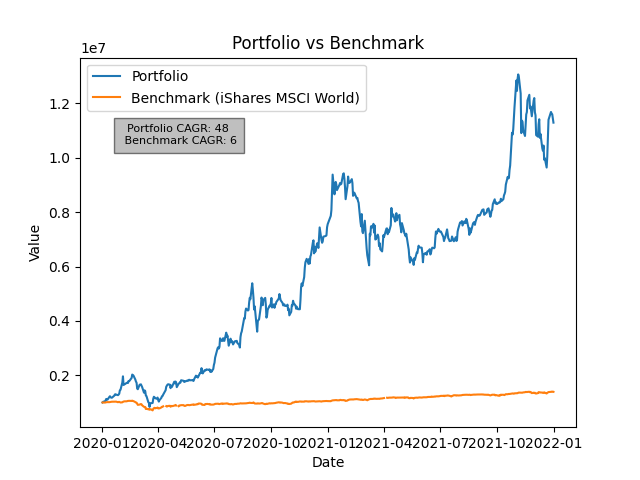
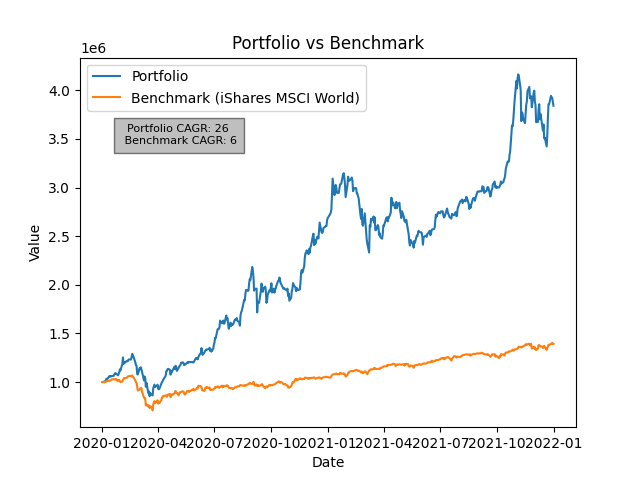
added smt but its' working

diff --git a/templates/home.html b/templates/home.html
@@ -18,51 +18,61 @@
 </head>
 <body class="poppins-regular">
     <div class="header">
-        <h1><s>Not</s> Portfolio Analyzer
-    </div>
-    <div>
-        <h2>But you can still enter your assets and their percentages</h2>
-    </div>
-
-    <div class ="form container">
-    <div class="asset-form">
-        <input list="assets" id = "asset-1">
-        <input type="number"  list="percentages" default = "0" id = "percentage-1">
-    </div>
-    <div class="asset-form">
-        <input list="assets" id = "asset-2">
-        <input type="number"  list="percentages" default = "0" id = "percentage-2">
-    </div> 
-    <div class="asset-form">
-        <input list="assets" id = "asset-3">
-        <input type="number"  list="percentages" default = "0" id = "percentage-3">
-    </div> 
-    <div class="asset-form">
-        <input list="assets" id = "asset-4">
-        <input type="number"  list="percentages" default = "0" id = "percentage-4">
-    </div> 
-
-    
-    </div>
-    
-
-    <button onclick="submitForm()">Analyze!</button>
-    <datalist id="assets">
-        <option value="AAPL">
-        <option value="TSLA">
-        <option value="MSFT">
-        <option value="IWDA.AS">
-    </datalist>
-
-
-
-    <div class = "analysis container" class="typewriter">
-        <p id="analysis-text">
+        <h1><s>NOT</s> A PORTFOLIO ANALYZER</h1>
+        <h3>I'm just a funny financial adivsor that will tell his opinion. <br> 
+        Please provide your assets (as listed in <a href="https://consent.yahoo.com/v2/collectConsent?sessionId=3_cc-session_b302b107-43ee-4daa-8c86-6fdf654f5a4d" target="_blank">Yahoo Finance</a>)
+        <br>and the percentage (as a integer) you want to allocate to each asset. <br>
         
-        </p>
+    </h2>
+    </div>
+    
+    <div class = "content">
+        <div class ="form-container " >
+            <div class="asset-form">
+                <input list="assets" class="asset poppins-bold" value = "AAPL" id = "asset-1">
+                <input type="number"  list="percentages" value = "20" class = "percentage" id = "percentage-1">
+            </div>
+            <div class="asset-form">
+                <input list="assets" class="asset poppins-bold" value = "TSLA" id = "asset-2">
+                <input type="number"  list="percentages" value = "20" class = "percentage" id = "percentage-2">
+            </div> 
+            <div class="asset-form">
+                <input list="assets" class="asset poppins-bold"  value = "MSFT" id = "asset-3">
+                <input type="number"  list="percentages" value = "20"class = "percentage" id = "percentage-3">
+            </div> 
+            <div class="asset-form">
+                <input list="assets" class="asset poppins-bold" value = "IWDA.AS" id = "asset-4">
+                <input type="number"  list="percentages" value = "20" class = "percentage" id = "percentage-4">
+            </div> 
+
+        
+            <button onclick="submitForm()">SEND!</button>
+            <datalist id="assets">
+                    <option value="AAPL">
+                    <option value="TSLA">
+                    <option value="SPY">
+                    <option value="MSFT">
+                    <option value="^DJI">
+                    <option value="IWDA.AS">
+                    <option value="^RUT">
+                    <option value="SPY">
+                    <option value="^FCHI">
+           
+            </datalist>
+        
+
+        </div>
+
+        <div class = "analysis-container typewriter">
+                <p id="analysis-text" style="text-align: justify; overflow: hidden"></p>
+        </div>
     </div>
 
-    <script src="{{url_for('static',path='/script.js')}}"></script>
+    <div class="footer">
+        <p>Created with LOVE by <a href="https://www.linkedin.com/notifications/?filter=all" target="_blank">Giacomo Maggiore</a></p>
+    </div>
+    
+        <script src="{{url_for('static',path='/script.js')}}"></script>
 
 </body>
 </html>

diff --git a/static/style.css b/static/style.css
@@ -1,4 +1,22 @@
+:root {
+    --color-1: black;
+    --color-2: white(171, 171, 171);
+    --color-3: rgb(181, 181, 181);
+    --color-4: rgb(255, 165, 255);
+    --margin-top: 10px;
+    --margin-left: 10px;
+  }
+  
 
+
+
+html, body {
+    width: 100vw; /* Full viewport width */
+    height: 100vh; /* Full viewport height */
+    overflow: hidden; /* Hides the scrollbars */
+    padding: 0 0 0 0; /* Removes default padding */
+    margin: 0 0 0 0; /* Remove the margin */
+}
 .typewriter p {
     display: inline-block;
     border-right: 2px solid black;
@@ -7,23 +25,93 @@
     animation: caret 1s steps(1) infinite;
 }
 
+.header{
+    background-color: var(--color-3);
+    margin: 0;
+    padding: var(--margin-top);
+}
+
+
 @keyframes caret {
-    50% {
+    0% {
         border-color: transparent;
     }
 }
 
-.container{
-    display: flex;
-    justify-content: flex-start;
-
-    height: 100vh;
-    justify-content: left;
+input {
+    margin: 4px 0;
+    border: none;
+    border-bottom: 3px solid var(--color-1); /* Light gray border */
+    background-color: transparent; /* Transparent background */
+    font-size: 20px;
 }
 
-.form{
+input:focus {
+    outline: none;
+    border-bottom-color: #000; /* Black border on focus */
+}
+
+button {
+    margin-top: var(--margin-top);
+    width: 100%;
+    cursor: pointer;
+    font-size: 20px;
+    background-color: var(--color-3);
+    border: none;
+    border-bottom: 2px solid var(--color-1);
+}
+
+button:hover {
+    background-color: lighr-gray; /* Color when hovered */
+}
+
+.form-container {
     display: flex;
     flex-direction: column;
     height: fit-content;
     background-color: white;
+    width: 40%;
+}
+
+.asset-form {
+    display: flex;
+    flex-direction: row;
+    justify-content: space-between;
+}
+
+.percentage {
+    width: 30%;
+}
+
+.asset {
+    width: 65%;
+}
+
+.content {
+    width: 90%;
+    margin: var(--margin-left) var(--margin-top);
+}
+
+.analysis-container {
+    width: 85%;
+    font-size: 25px;
+
+    word-wrap: break-word;
+    
+}
+
+#analysis-text{
+    display: block; /* or inline-block, at least its a block element */
+    height: auto; /* height cannot be defined */
+    word-break: break-world; /*  */
+    white-space: normal; /* be sure its not 'nowrap'! ! ! :/ */
+}
+
+.footer{
+    display: block;
+    position: fixed;
+    left: 0;
+    bottom: 0;
+    width: 100%;
+    background-color: var(--color-4);
 }

diff --git a/static/script.js b/static/script.js
@@ -4,6 +4,7 @@ let text = "..."
 
 function type() {
     if (index < text.length) {
+
         analysis_text.innerHTML += text.charAt(index);
         index++;
         setTimeout(type, 50); // Regola la velocità di digitazione qui
@@ -17,12 +18,20 @@ function submitForm() {
     let asset_3 = document.getElementById("asset-3").value;
     let asset_4 = document.getElementById("asset-4").value;
     
-    let percentage_1 = document.getElementById("percentage-1").value;
-    let percentage_2 = document.getElementById("percentage-2").value;
-    let percentage_3 = document.getElementById("percentage-3").value;
-    let percentage_4 = document.getElementById("percentage-4").value;
+    let percentage_1 = Number(document.getElementById("percentage-1").value);
+    let percentage_2 = Number(document.getElementById("percentage-2").value);
+    let percentage_3 = Number(document.getElementById("percentage-3").value);
+    let percentage_4 = Number(document.getElementById("percentage-4").value);
+
+    console.log(percentage_1, percentage_2, percentage_3, percentage_4)
 
     let status = 0
+    if (asset_1 == asset_2 || asset_1 == asset_3 || asset_1 == asset_4 
+        || asset_2 == asset_3 || asset_2 == asset_4 || 
+        asset_3 == asset_4){
+            status = 0
+        }
+
     if (asset_1 && percentage_1){
         status += 1
     }
@@ -51,11 +60,19 @@ function submitForm() {
         asset_4="none"
         percentage_4=0
     }
+    
+
+
     if (status < 2){
-        alert("Please fill out at least two asset and two percentages")
+        alert("Please fill out at least two different asset and two percentages")
+        return
+    }
+    if (percentage_1 + percentage_2 + percentage_3 + percentage_4 > 100){
+        alert("Sum of the percentages should be less than 100")
         return
     }
 
+    analysis_text.innerHTML = ""
     base_url = "http://localhost:8000/analyze?"
     query_parameters = `asset_1=${asset_1}&percentage_1=${percentage_1}&asset_2=${asset_2}&percentage_2=${percentage_2}&asset_3=${asset_3}&percentage_3=${percentage_3}&asset_4=${asset_4}&percentage_4=${percentage_4}`
     url = base_url + query_parameters;

diff --git a/backend.py b/backend.py
@@ -118,9 +118,15 @@ def create_portfolio(portfolio_dict):
         df_data.iloc[:, j] = df_data.iloc[:, j] * n_shares_per_asset[j]
     
     df_data["portfolio_value"] = df_data.sum(axis=1)
+    cash_portfolio = total_amount - df_data["portfolio_value"].iloc[0]
+    df_data["portfolio_value"] = df_data["portfolio_value"] + cash_portfolio
     df_portfolio = pd.DataFrame( index = df_data.index)
     df_portfolio["Portfolio"] = df_data["portfolio_value"] 
     df_portfolio["Benchmark"] = df_data_benchmark * n_shares_benchmark
+    df_portfolio.fillna(method='ffill', inplace=True)
+    df_portfolio.fillna(method='bfill', inplace=True)
+    cash_benchmark = total_amount - df_portfolio["Benchmark"].iloc[0]
+    df_portfolio["Benchmark"] = df_portfolio["Benchmark"] + cash_benchmark
     
     
     portfolio_start_value = df_portfolio.iloc[0, 0]
@@ -162,6 +168,12 @@ def gemini_analysis(portfolio_dict, photo_1_path):
     Asset: {portfolio_dict['asset_1'][1]} :{portfolio_dict['asset_1'][0]}%
     Asset: {portfolio_dict['asset_2'][1]} :{portfolio_dict['asset_2'][0]}%
     Analyze it in a funny way please!
+    you can do one of the following:
+    - make comparison wih famous movies
+    - make comparison with food
+    - make comparison with animals
+    - make comparison with famous people
+    - make comparison with famous places
     Keep it short and make fun of the investor (less than 10000 characters)."""
     
 
